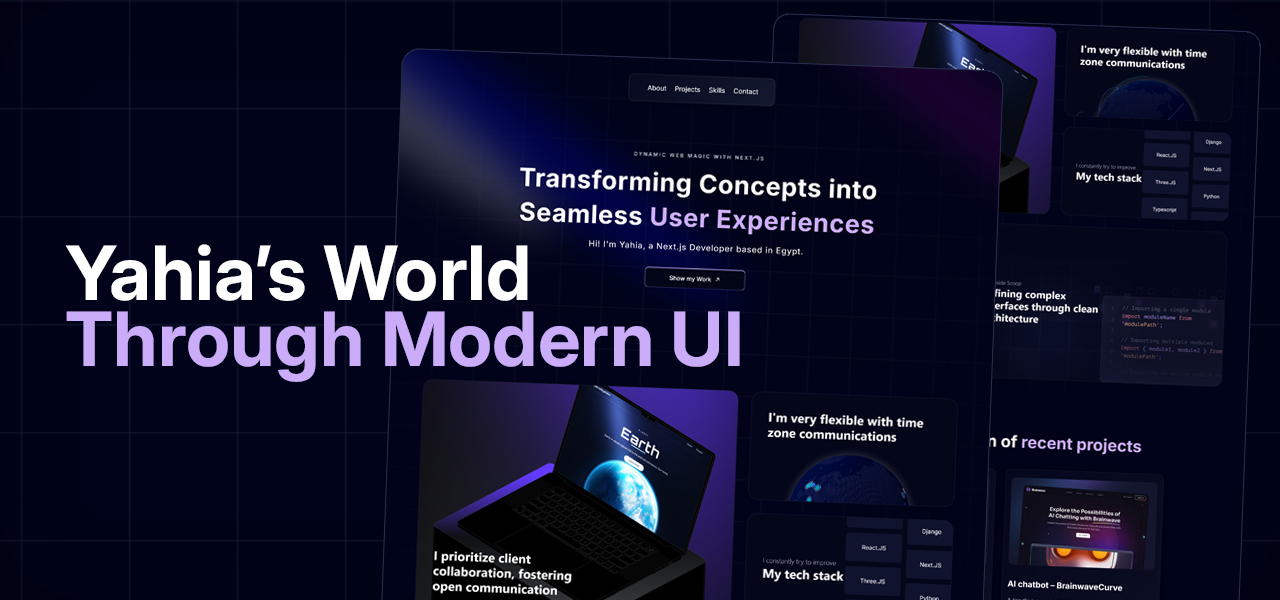
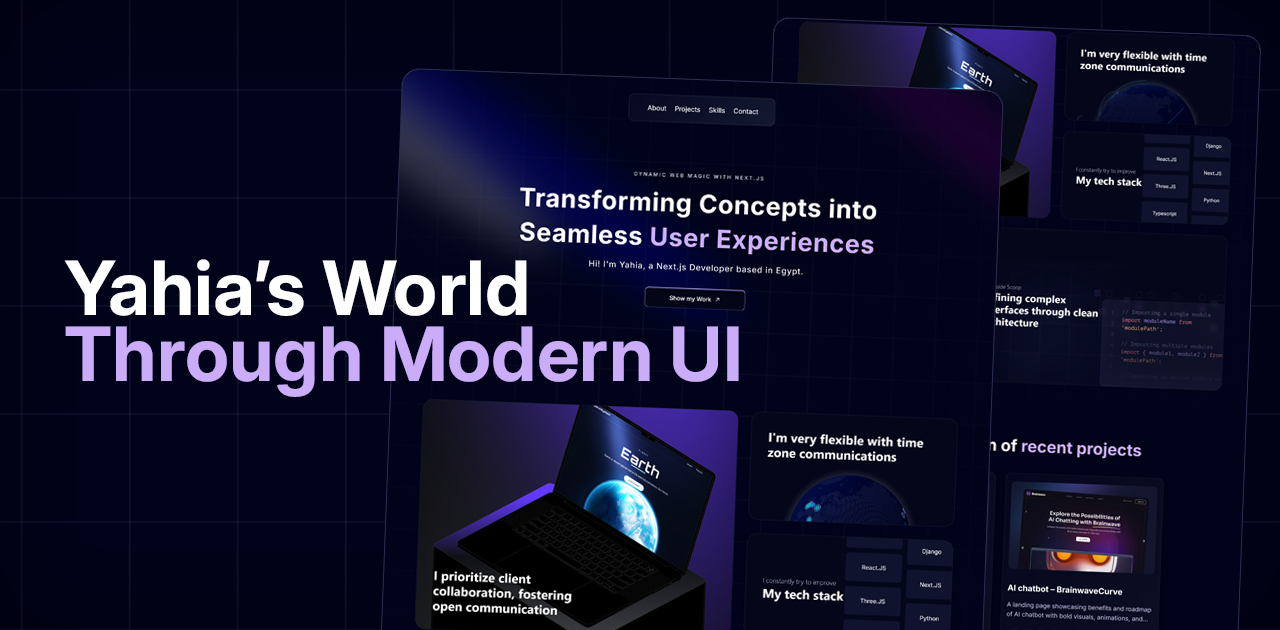
seo

diff --git a/app/layout.tsx b/app/layout.tsx
@@ -25,7 +25,7 @@ export const metadata: Metadata = {
       {
         url: "https://portfolio25-one.vercel.app/portfolio.png",
         width: 1200,
-        height: 600,
+        height: 630,
         alt: "Yahia's Portfolio Preview",
       },
     ],
